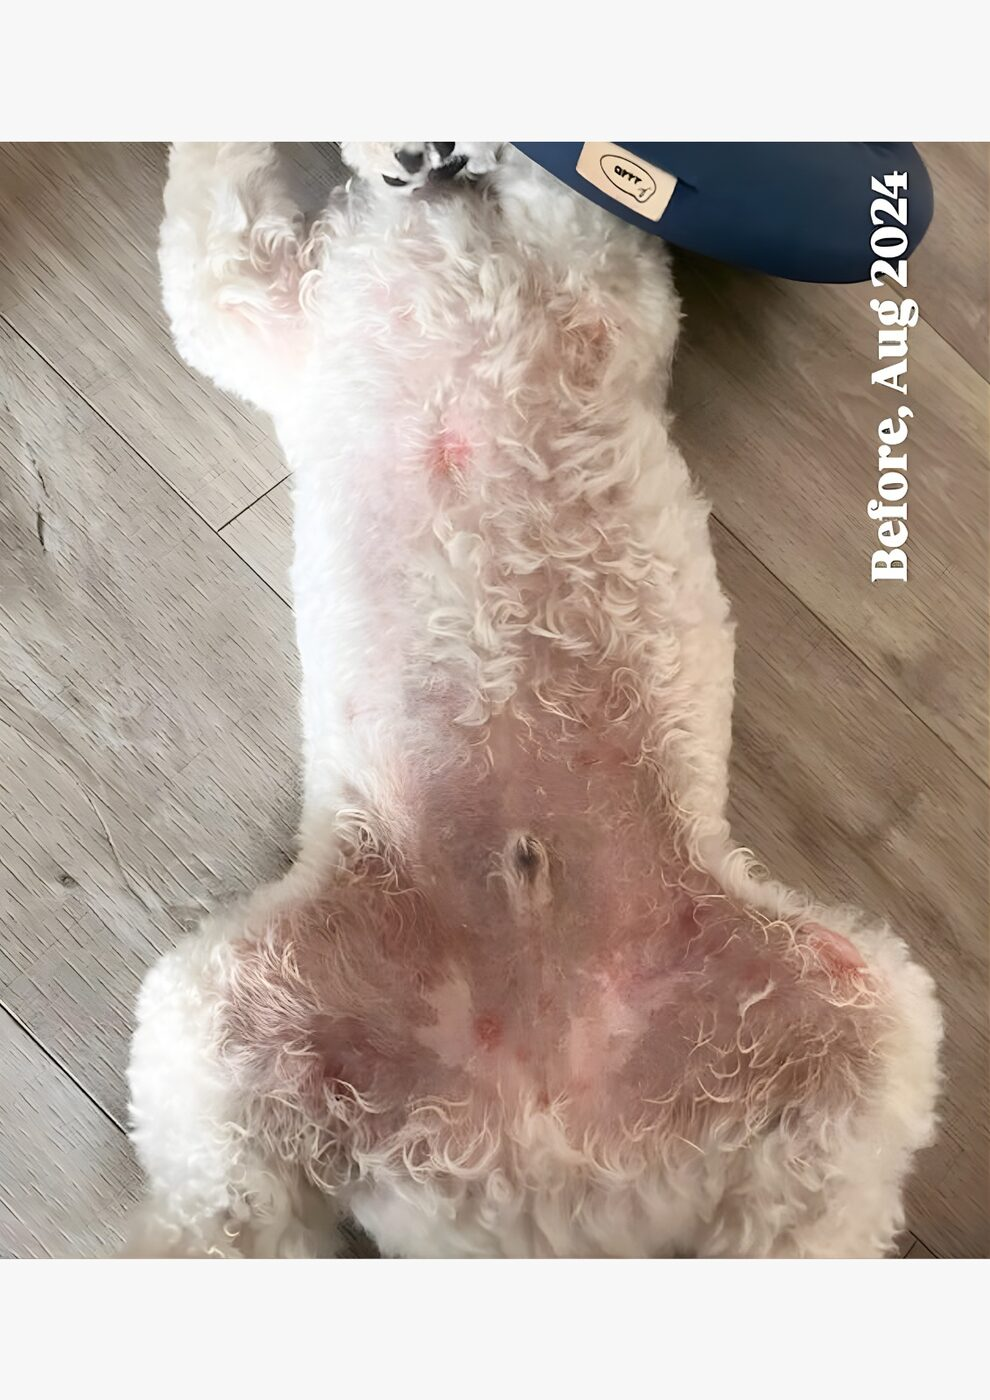
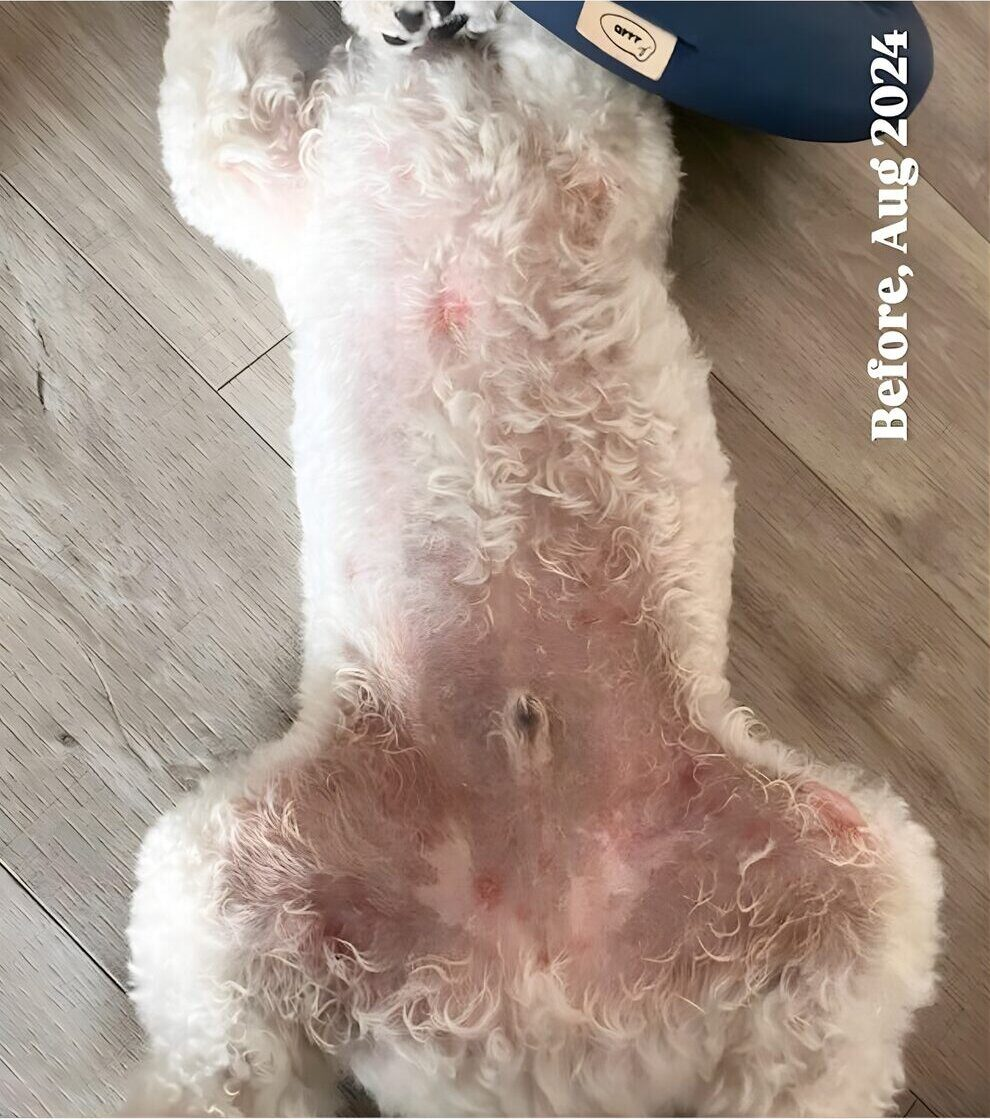
Fix Lillidale matching bugs, redesign before/after (Option C)

diff --git a/lib/brandContent.js b/lib/brandContent.js
@@ -128,21 +128,18 @@ export const BRAND_CONTENT = {
             image: '/brand-features/lillidale/pillar-supplements.jpg',
             heading: 'Supplements',
             body: "Daily pellets that support joints, gut, coat and dental health.",
-            items: ['ProJoint', 'ProHealth', 'Plaque Guard'],
           },
           {
             anchor: 'antimicrobial',
             image: '/brand-features/lillidale/pillar-antimicrobial.jpg',
             heading: 'Antimicrobial healthcare',
             body: "All-natural, hypochlorous acid-based care that's gentle, fast-acting and safe around wounds, ears, eyes and everyday hygiene.",
-            items: ['Sanitizing Spray', 'Ear Cleanser', 'Dental Spray', 'Eye Cleanser', 'Wound Care'],
           },
           {
             anchor: 'wellness',
             image: '/brand-features/lillidale/pillar-wellness.jpg',
             heading: 'Wellness',
             body: "Everyday grooming and skin essentials for between the big stuff.",
-            items: ['Lazy Wash (no-rinse)', 'Paw & Nose Balm', 'Wound Cream', 'Skin Ointment', 'Sunblock Powder'],
           },
         ],
       },
@@ -159,6 +156,8 @@ export const BRAND_CONTENT = {
             title: 'Itchy skin to a healthy coat',
             beforeImage: '/brand-features/lillidale/prohealth-before.jpg',
             afterImage: '/brand-features/lillidale/prohealth-after.jpg',
+            beforeTag: 'Before, Aug 2024',
+            afterTag: 'After, Sep 2024',
             beforeLabel: 'Before, Aug 2024: itchy skin, soft stool',
             afterLabel: 'After, Sep 2024: fur regrowth, firm stool',
             source: '@zaithelilrascal',
@@ -168,6 +167,9 @@ export const BRAND_CONTENT = {
             title: 'Visible tartar reduction in a week',
             beforeImage: '/brand-features/lillidale/plaqueguard-before.jpg',
             afterImage: '/brand-features/lillidale/plaqueguard-after.jpg',
+            orientation: 'vertical',
+            beforeTag: 'Day 1',
+            afterTag: 'Day 7',
             beforeLabel: 'Day 1: tartar buildup',
             afterLabel: 'Day 7: reduced tartar',
             source: '@kokohoney1103, Plaque Guard mixed into meals daily, Dental Spray between brushes',
@@ -177,6 +179,8 @@ export const BRAND_CONTENT = {
             title: 'From frequent scratching to itch-free',
             beforeImage: '/brand-features/lillidale/earcleanser-before.jpg',
             afterImage: '/brand-features/lillidale/earcleanser-after.jpg',
+            beforeTag: 'Before',
+            afterTag: 'After',
             beforeLabel: 'Before: ear infection, frequent scratches',
             afterLabel: 'After: clean ears, itch-free',
             source: '@tangyuan.muahchee',
@@ -203,7 +207,7 @@ export const BRAND_CONTENT = {
               variants: [
                 { label: '500g', seriesIncludes: 'ProJoint', seriesExcludes: ['Cat'], variationIncludes: '500g', image: '/brand-features/lillidale/sku-projoint-500g.jpg' },
                 { label: '200g', seriesIncludes: 'ProJoint', seriesExcludes: ['Cat'], variationIncludes: '200g', image: '/brand-features/lillidale/sku-projoint-200g.jpg' },
-                { label: '2kg', seriesIncludes: 'ProJoint', seriesExcludes: ['Cat'], variationIncludes: '2kg', image: '/brand-features/lillidale/sku-projoint-2kg.jpg' },
+                { label: '2kg', seriesIncludes: 'ProJoint', seriesExcludes: ['Cat'], variationIncludesAny: ['2kg', '2 kg', '2000g'], image: '/brand-features/lillidale/sku-projoint-2kg.jpg' },
               ],
             },
             {
@@ -211,7 +215,7 @@ export const BRAND_CONTENT = {
               variants: [
                 { label: '500g', seriesIncludes: 'ProHealth', variationIncludes: '500g', image: '/brand-features/lillidale/sku-prohealth-500g.jpg' },
                 { label: '200g', seriesIncludes: 'ProHealth', variationIncludes: '200g', image: '/brand-features/lillidale/sku-prohealth-200g.jpg' },
-                { label: '2kg', seriesIncludes: 'ProHealth', variationIncludes: '2kg', image: '/brand-features/lillidale/sku-prohealth-2kg.jpg' },
+                { label: '2kg', seriesIncludes: 'ProHealth', variationIncludesAny: ['2kg', '2 kg', '2000g'], image: '/brand-features/lillidale/sku-prohealth-2kg.jpg' },
               ],
             },
             {
@@ -231,23 +235,23 @@ export const BRAND_CONTENT = {
           items: [
             {
               name: 'Sanitizing Spray', fitFor: '500ml',
-              variants: [{ label: '500ml', seriesIncludes: 'Sanitizing', image: '/brand-features/lillidale/sku-sanitizingspray.jpg' }],
+              variants: [{ label: '500ml', seriesIncludesAny: ['Sanitising', 'Sanitizing'], image: '/brand-features/lillidale/sku-sanitizingspray.jpg' }],
             },
             {
               name: 'Ear Cleanser', fitFor: '250ml',
-              variants: [{ label: '250ml', seriesIncludes: 'Ear Cleanser', image: '/brand-features/lillidale/sku-earcleanser.jpg' }],
+              variants: [{ label: '250ml', seriesIncludes: 'Ear', image: '/brand-features/lillidale/sku-earcleanser.jpg' }],
             },
             {
               name: 'Dental Spray', fitFor: '250ml',
-              variants: [{ label: '250ml', seriesIncludes: 'Dental Spray', image: '/brand-features/lillidale/sku-dentalspray.jpg' }],
+              variants: [{ label: '250ml', seriesIncludes: 'Dental', image: '/brand-features/lillidale/sku-dentalspray.jpg' }],
             },
             {
               name: 'Eye Cleanser', fitFor: '65ml',
               variants: [{ label: '65ml', seriesIncludes: 'Eye Cleanser', image: '/brand-features/lillidale/sku-eyecleanser.jpg' }],
             },
             {
-              name: 'Wound Care', fitFor: '100ml',
-              variants: [{ label: '100ml', seriesIncludes: 'Wound Care', seriesExcludes: ['Cream'], image: '/brand-features/lillidale/sku-woundcare.jpg' }],
+              name: 'Wound Care', fitFor: '65ml',
+              variants: [{ label: '65ml', seriesIncludes: 'Wound', seriesExcludes: ['Cream'], image: '/brand-features/lillidale/sku-woundcare.jpg' }],
             },
           ],
         },

diff --git a/app/globals.css b/app/globals.css
@@ -702,9 +702,6 @@ footer.site-footer { background: var(--navy); color: var(--cream); padding-top: 
 .lil-pillar-body { padding: 24px 22px 26px; }
 .lil-pillar-body h3 { font-weight: 800; font-size: 19px; color: var(--navy); margin-bottom: 8px; }
 .lil-pillar-body p { font-size: 14px; color: var(--dark-gray); line-height: 1.6; margin-bottom: 14px; }
-.lil-pillar-list { list-style: none; padding: 0; margin: 0 0 16px; font-size: 13px; color: var(--dark-gray); }
-.lil-pillar-list li { padding: 3px 0; }
-.lil-pillar-list li::before { content: '· '; color: var(--orange); font-weight: 800; }
 .lil-pillar-link { font-size: 12.5px; font-weight: 800; color: var(--orange); text-transform: uppercase; letter-spacing: .4px; }
 
 .lil-before-after { padding: 100px 0 110px; background: var(--navy); text-align: center; }
@@ -712,8 +709,11 @@ footer.site-footer { background: var(--navy); color: var(--cream); padding-top: 
 .lil-ba-sub { max-width: 560px; margin: 0 auto 50px; font-size: 15.5px; color: rgba(245,242,235,.7); line-height: 1.7; }
 .lil-ba-grid { display: grid; grid-template-columns: repeat(3,1fr); gap: 24px; text-align: left; }
 .lil-ba-card { background: rgba(245,242,235,.04); border: 1px solid rgba(245,242,235,.14); border-radius: 20px; overflow: hidden; }
-.lil-ba-split { display: grid; grid-template-columns: 1fr 1fr; height: 190px; }
+.lil-ba-split { display: grid; grid-template-columns: 1fr 1fr; height: 340px; }
+.lil-ba-split.vertical { grid-template-columns: 1fr; grid-template-rows: 1fr 1fr; }
+.lil-ba-half-wrap { position: relative; width: 100%; height: 100%; overflow: hidden; }
 .lil-ba-half { width: 100%; height: 100%; object-fit: cover; display: block; }
+.lil-ba-tag { position: absolute; bottom: 10px; left: 10px; background: rgba(20,33,61,.75); color: var(--cream); font-size: 11px; font-weight: 700; text-transform: uppercase; letter-spacing: .04em; padding: 5px 12px; border-radius: 100px; }
 .lil-ba-body { padding: 22px 24px 26px; }
 .lil-ba-product { font-size: 12px; font-weight: 800; color: var(--orange); text-transform: uppercase; letter-spacing: .5px; margin-bottom: 8px; }
 .lil-ba-body h3 { font-family: 'Fraunces', serif; font-weight: 600; font-size: 19px; color: var(--cream); margin-bottom: 10px; }

diff --git a/components/BrandDeepDive.jsx b/components/BrandDeepDive.jsx
@@ -67,9 +67,6 @@ export default function BrandDeepDive({ deepDive, brandDisplayName, products }) 
                   <div className="lil-pillar-body">
                     <h3>{p.heading}</h3>
                     <p>{p.body}</p>
-                    <ul className="lil-pillar-list">
-                      {p.items.map(i => <li key={i}>{i}</li>)}
-                    </ul>
                     <span className="lil-pillar-link">Jump to {p.heading.toLowerCase()} ↓</span>
                   </div>
                 </a>
@@ -88,9 +85,15 @@ export default function BrandDeepDive({ deepDive, brandDisplayName, products }) 
             <div className="lil-ba-grid">
               {beforeAfter.items.map(item => (
                 <div className="lil-ba-card" key={item.product}>
-                  <div className="lil-ba-split">
-                    <ImageSlot image={item.beforeImage} alt={`${item.product} before`} hint="Before" className="lil-ba-half" />
-                    <ImageSlot image={item.afterImage} alt={`${item.product} after`} hint="After" className="lil-ba-half" />
+                  <div className={`lil-ba-split${item.orientation === 'vertical' ? ' vertical' : ''}`}>
+                    <div className="lil-ba-half-wrap">
+                      <ImageSlot image={item.beforeImage} alt={`${item.product} before`} hint="Before" className="lil-ba-half" />
+                      <span className="lil-ba-tag">{item.beforeTag || 'Before'}</span>
+                    </div>
+                    <div className="lil-ba-half-wrap">
+                      <ImageSlot image={item.afterImage} alt={`${item.product} after`} hint="After" className="lil-ba-half" />
+                      <span className="lil-ba-tag">{item.afterTag || 'After'}</span>
+                    </div>
                   </div>
                   <div className="lil-ba-body">
                     <div className="lil-ba-product">{item.product}</div>

diff --git a/components/ProductAddButton.jsx b/components/ProductAddButton.jsx
@@ -49,8 +49,9 @@ function swatchFor(text) {
   return hit ? hit[1] : '#B8B2A6';
 }
 
-function findMatches(products, { seriesIncludes, seriesExcludes = [], variationIncludes }) {
+function findMatches(products, { seriesIncludes, seriesExcludes = [], variationIncludes, variationIncludesAny }) {
   const seriesTerms = Array.isArray(seriesIncludes) ? seriesIncludes : [seriesIncludes];
+  const variationTerms = variationIncludesAny || (variationIncludes ? [variationIncludes] : null);
   const lower = s => (s || '').toLowerCase();
   return products.filter(p => {
     // Which field holds the descriptive fish/product name isn't
@@ -63,7 +64,11 @@ function findMatches(products, { seriesIncludes, seriesExcludes = [], variationI
     const variation = lower(p.variation);
     if (!seriesTerms.some(t => combined.includes(lower(t)))) return false;
     if (seriesExcludes.some(x => combined.includes(lower(x)))) return false;
-    if (variationIncludes && !variation.includes(lower(variationIncludes))) return false;
+    // variationIncludesAny: match if ANY of the given terms appear — used
+    // to hedge against a size being written slightly differently than
+    // expected in the real data (e.g. "2kg" vs "2 kg" vs "2000g") without
+    // needing a confirmed screenshot for every possible format.
+    if (variationTerms && !variationTerms.some(t => variation.includes(lower(t)))) return false;
     return true;
   });
 }
@@ -104,6 +109,7 @@ export default function ProductAddButton({ products, productLabel, variants, ser
         seriesIncludes: v.seriesIncludesAny || v.seriesIncludes,
         seriesExcludes: v.seriesExcludes,
         variationIncludes: v.variationIncludes,
+        variationIncludesAny: v.variationIncludesAny,
       })[0] || null;
       return { label: v.label, hex: v.hex, image: v.image, product: match };
     });

diff --git a/README.md b/README.md
@@ -1,65 +1,72 @@
-# Lillidale brand deep-dive — patch
+# Lillidale brand deep-dive — fix + before/after redesign patch
 
-## What this adds
+This replaces the previous Lillidale patch delivery. If you already applied
+that one, this is a straight overwrite — same files, updated content.
 
-The Lillidale brand page (`/brands/lillidale-natural-pet-supplement`) now has
-a full deep-dive section between the existing hero and the existing FAQ:
+## What changed since the last patch
 
-1. **Pillars nav** — Supplements / Antimicrobial healthcare / Wellness, each
-   with a photo, description, and jump-link.
-2. **Before & after showcase** — 3 real customer stories (ProHealth,
-   Plaque Guard + Dental Spray, Ear Cleanser), using the real photos you sent.
-3. **Three shop grids** (one per pillar) — 13 SKUs total, each with a real
-   product photo and an Add to Cart button. ProJoint and ProHealth show
-   their 500g photo by default; picking a different size in the modal swaps
-   the photo to match (built-in behavior of the existing explicit-variants
-   picker — no new logic needed for that part).
+**1. Fixed the "Unavailable" bugs you found live:**
+- ProJoint & ProHealth 2kg — was matching the exact text "2kg"; now also
+  accepts "2 kg" and "2000g" as valid matches (`ProductAddButton.jsx` gained
+  a new `variationIncludesAny` option for this — small, reusable addition,
+  doesn't affect any other brand's cards).
+- Sanitizing Spray — now matches both "Sanitising" (the spelling actually
+  on the product photo) and "Sanitizing".
+- Ear Cleanser / Dental Spray — loosened to shorter, safer keywords ("Ear",
+  "Dental") since the exact phrases weren't matching your real data.
+- Wound Care — corrected the displayed size from 100ml to 65ml.
 
-No hero, FAQ, or CTA changes — those already exist on the shared brand-page
-template and weren't touched.
+**2. Removed the pillar bullet-point lists** (Supplements/Antimicrobial/
+Wellness cards) per your markup — cards now just show the photo,
+description, and jump-link.
 
-## Files in this patch
+**3. Rebuilt the before/after section — Option C, with your two tweaks:**
+- Trimmed real blank white space out of the ProHealth and Plaque Guard
+  photos (Plaque Guard's originals were ~65% blank — cropped that out).
+- Taller frame (340px vs. the old 190px) so images actually read clearly.
+- **Plaque Guard card now stacks Before/After top-to-bottom** instead of
+  side-by-side, since those photos are landscape to begin with.
+- **Every card now has a "Before"/"After" (or "Day 1"/"Day 7") pill directly
+  on the image**, not just in the text underneath.
 
-- `components/BrandDeepDive.jsx` — **complete file.** Added three new
-  section shapes: `pillars`, `beforeAfter`, `fitCardGroups` (a repeatable
-  version of the existing `fitCards` shape, since Lillidale needed three
-  separate shop grids instead of one). Existing shapes (chew, durability,
-  intro, featureSplit, stats, checklist, fishGroups, fitCards) are
-  untouched — Better Bone, Puzzle Feeder, and Eastsea Brother pages are
-  unaffected.
-- `lib/brandContent.js` — **complete file.** Only the `Lillidale` entry
-  changed; every other brand's data is untouched.
-- `app/globals.css` — **complete file.** Added new CSS classes at the very
-  end (`.lil-pillars`, `.lil-before-after`, `.lil-fit-group`, `.eyebrow.on-
-  dark`). Nothing existing was edited or removed.
-- `public/brand-features/lillidale/*.jpg` — **27 new images**, all
-  resized/compressed for web (2.0MB total, down from 19.7MB as received).
-  No existing files touched.
+## Files in this patch (all complete files)
 
-No files are renamed or replaced, so there's nothing to manually delete
-this time — plain unzip-and-replace covers everything.
+- `components/BrandDeepDive.jsx` — before/after section updated (tag pills,
+  vertical-split support). Nothing else in this file changed since the
+  last patch.
+- `components/ProductAddButton.jsx` — added `variationIncludesAny` support
+  to `findMatches()`. This is a small, backwards-compatible addition — every
+  other brand's cards (BetterBone, Puzzle Feeder, Eastsea Brother) are
+  unaffected since they don't use this new option.
+- `lib/brandContent.js` — only the `Lillidale` entry changed.
+- `app/globals.css` — only the `.lil-*` rules at the end changed (taller
+  split frame, image tag pills, vertical variant, pillar-list rule
+  removed).
+- `public/brand-features/lillidale/*.jpg` — `prohealth-before/after.jpg`
+  and `plaqueguard-before/after.jpg` are replaced with trimmed versions
+  (blank space cropped out). Everything else is unchanged from the last
+  patch — just re-included here so this zip is a complete, self-contained
+  overwrite.
 
-## Before you deploy — one thing worth knowing
+Nothing is renamed, so plain unzip-and-replace covers it — no manual
+deletion needed.
 
-The Wellness range's `item_series`/`variation` naming was confirmed
-directly from your Pawvy App Products screenshot (SKU code + "Lillidale
-Grooming" in `item_series`, real name + size in `variation` — same pattern
-as Eastsea Brother). The **Supplements and Antimicrobial healthcare**
-`seriesIncludes` terms (ProJoint, ProHealth, Plaque Guard, Sanitizing
-Spray, Ear Cleanser, Dental Spray, Eye Cleanser, Wound Care) are my best
-guess from the product photos/packaging text — I don't have a confirmed
-screenshot of those two groups' real `item_series` values.
+## Still an open question, same as last time
 
-I ran a local smoke test (rendering the component against fabricated
-product rows shaped like your real data) and every one of the 13 cards
-resolved correctly with zero "Unavailable" states — but that's fabricated
-data, not your real catalog. Per the standing lesson from this session's
-earlier bugs: **please do one real click-through on each of the 13 Add to
-Cart buttons after this deploys** — especially the Supplements and
-Antimicrobial groups. If any card shows "Unavailable," it almost certainly
-means the real `item_series`/`variation` text doesn't contain the term I
-guessed, and I'll need the actual field values to fix it (same as the
-BetterBone/Eastsea Brother matching bugs earlier this session).
+The Sanitizing/Ear Cleanser/Dental Spray fix is a best-effort loosening,
+not a confirmed fix — I still don't have a screenshot of those three SKUs'
+real `item_series`/`variation` text. If any of them still show
+"Unavailable" after this deploys, that's the next thing to check directly
+in the Pawvy App's Products search.
+
+## What I verified locally
+
+- `npm run build` — clean.
+- SSR smoke test reproducing your exact reported failures (2kg written as
+  "2 kg", Sanitising spelling, etc.) — all 13 cards now resolve, zero
+  "Unavailable".
+- Confirmed the vertical split renders for Plaque Guard and the tag pills
+  render on all 6 before/after images.
 
 ## Deploying
 
@@ -68,31 +75,23 @@ git checkout main
 git pull origin main
 ```
 
-Unzip this patch on top of your local `pawvy-website` folder ("Copy and
-Replace" when prompted), then:
+Unzip on top of your local `pawvy-website` folder ("Copy and Replace"),
+then:
 
 ```bash
 git add -A
-git commit -m "Add Lillidale brand deep-dive: pillars, before/after, 13-SKU shop grids"
+git commit -m "Fix Lillidale matching bugs, redesign before/after (Option C)"
 git push origin main
 ```
 
-Railway will auto-deploy from `main` on push. If it doesn't pick it up
-automatically, use the manual Redeploy button on the Deployments tab
-before digging into anything else — that's resolved this before.
+Railway auto-deploys from `main`. If it doesn't pick it up, use the manual
+Redeploy button on the Deployments tab first.
 
-## What I verified locally
+## Please click-test again after this deploys
 
-- `npm run build` — clean, no errors.
-- SSR smoke test of `BrandDeepDive` against fabricated product data shaped
-  like your real records — all 13 cards render, zero crashes, zero
-  "Unavailable" states.
-- All 27 images compressed and confirmed to load correctly at their new
-  paths.
-
-## What I could not verify locally (no access to your live backend/DB)
-
-- Whether the real `item_series`/`variation` text for Supplements and
-  Antimicrobial healthcare actually contains the terms I guessed — see
-  the flag above.
-- Real stock levels / `stock_status` for any of the 13 SKUs.
+Same ask as last time, now narrower:
+- The 13 Add to Cart buttons, especially Sanitizing Spray / Ear Cleanser /
+  Dental Spray / 2kg sizes — since those are the loosened/hedged fixes.
+- The before/after section on both desktop and mobile widths, to make sure
+  the taller frame and the Plaque Guard stacked layout look right at your
+  actual screen sizes.
